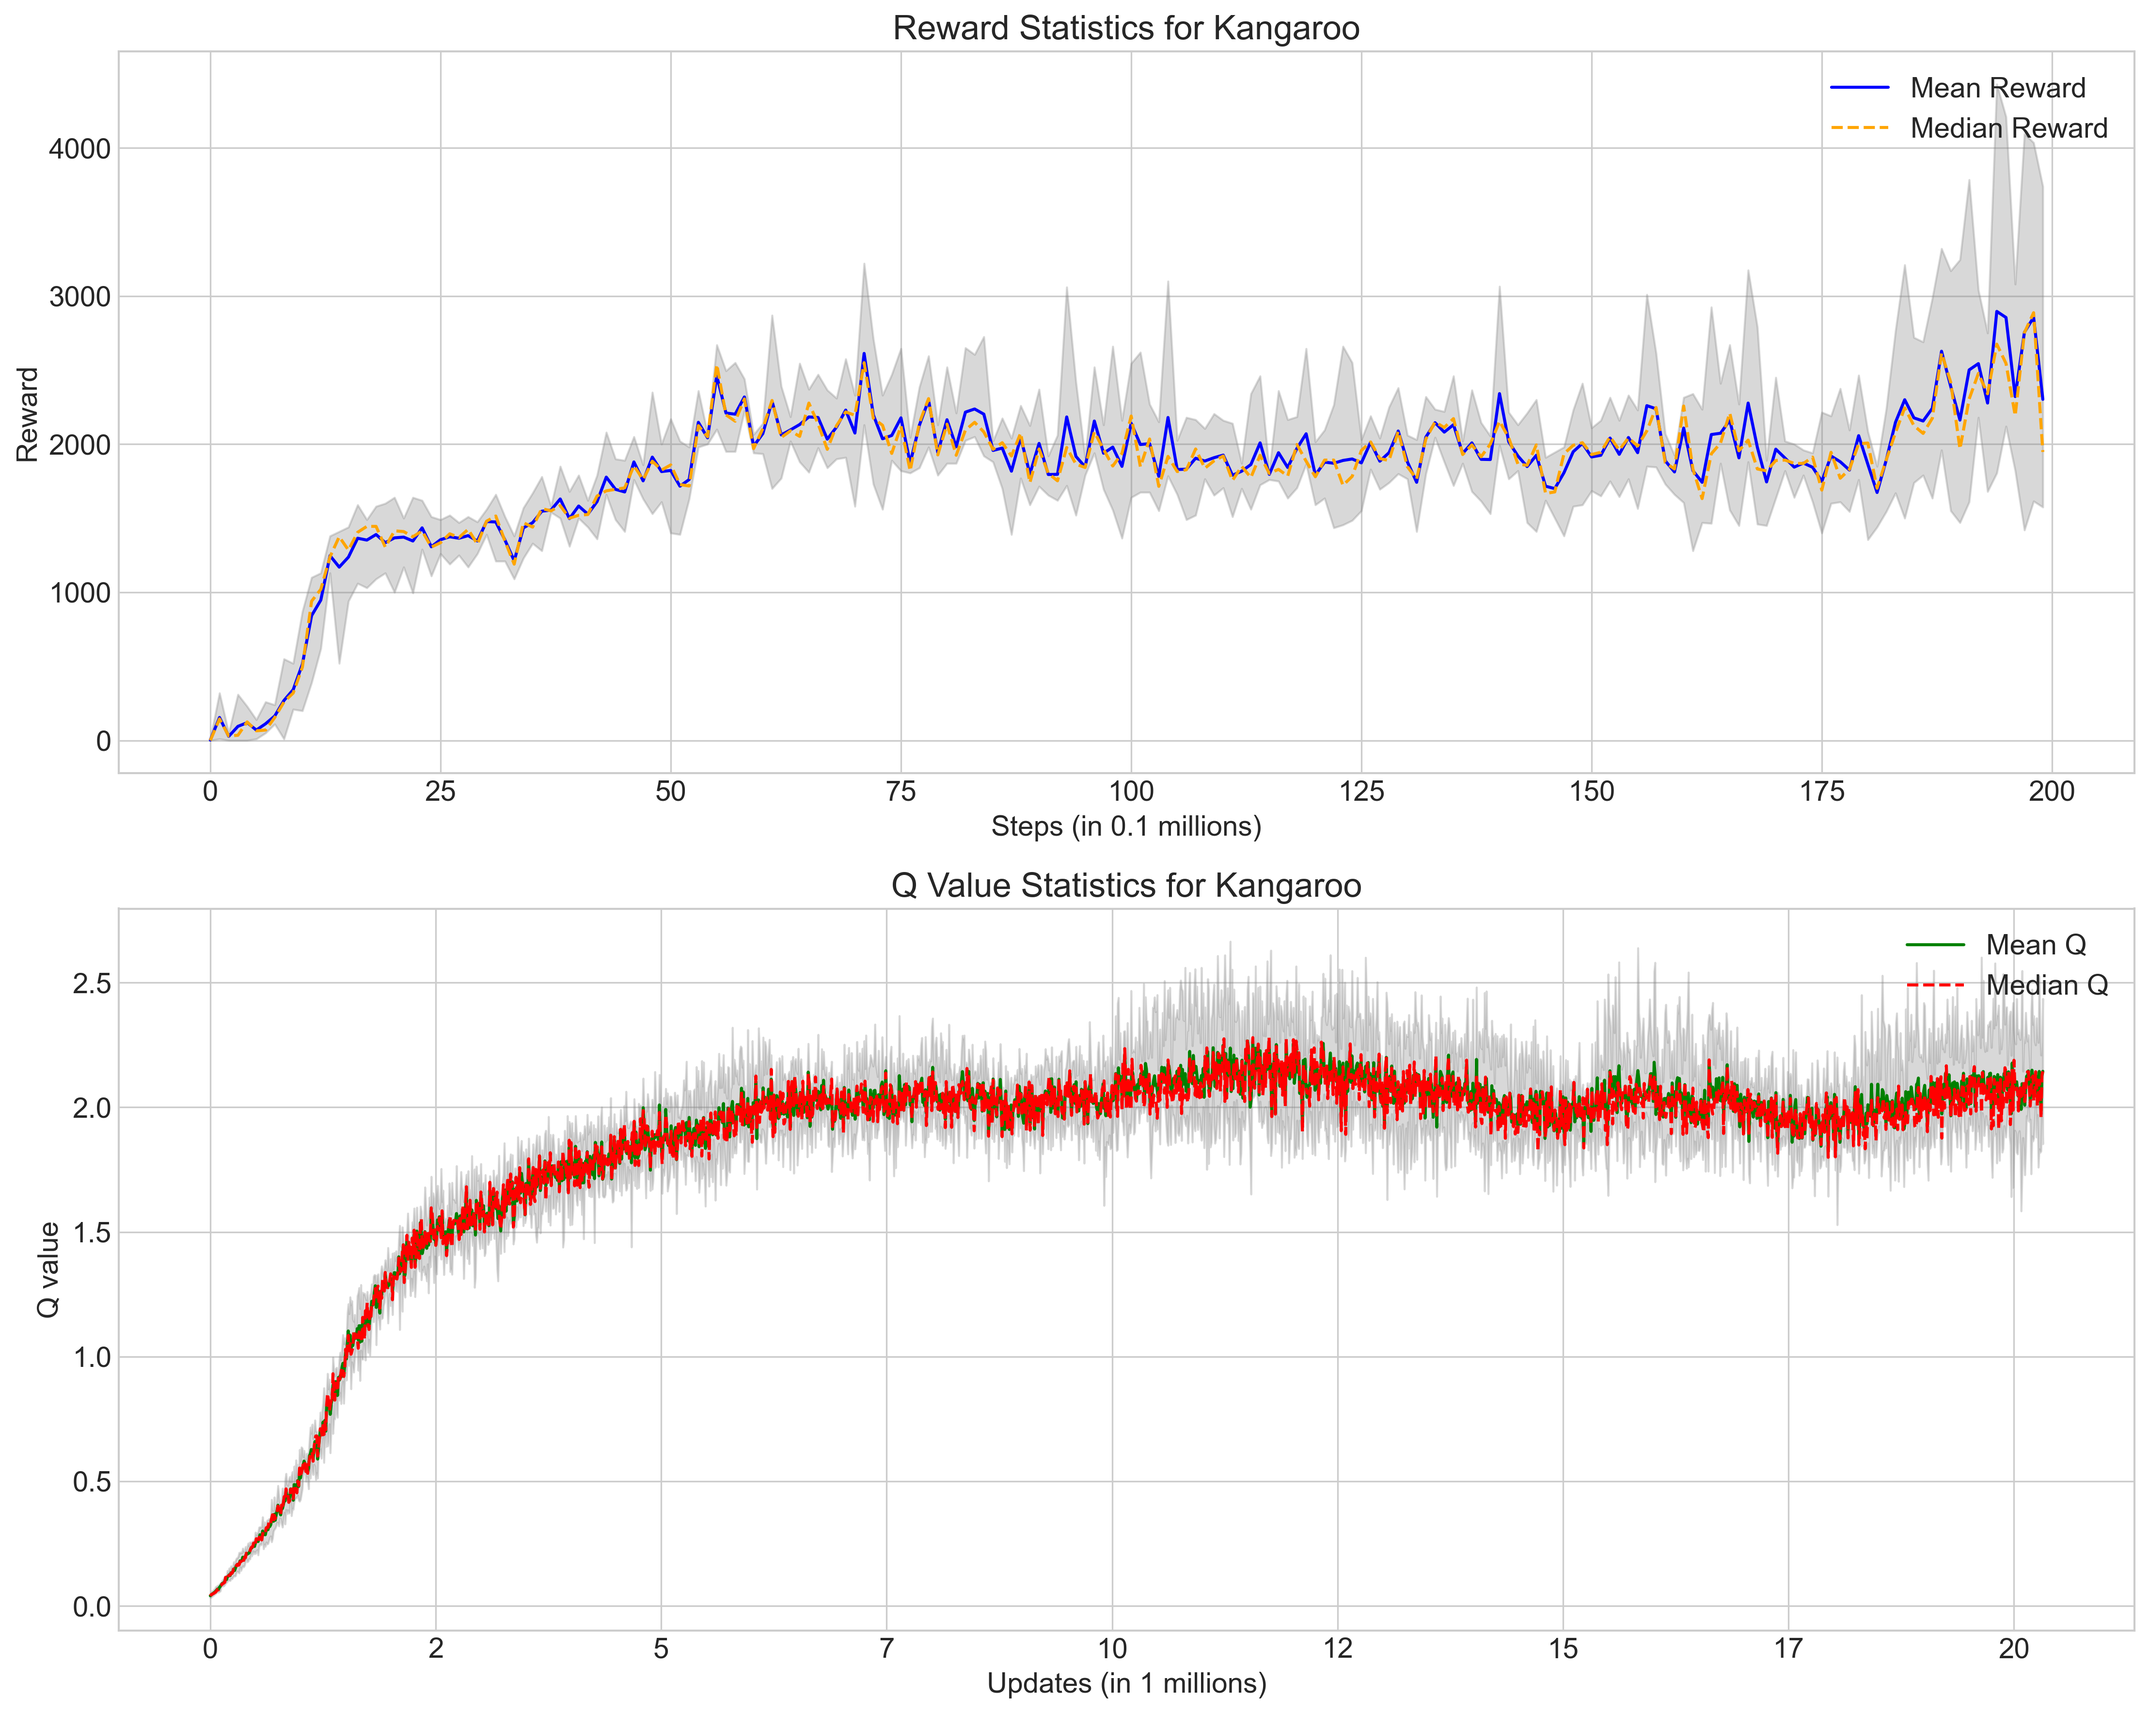
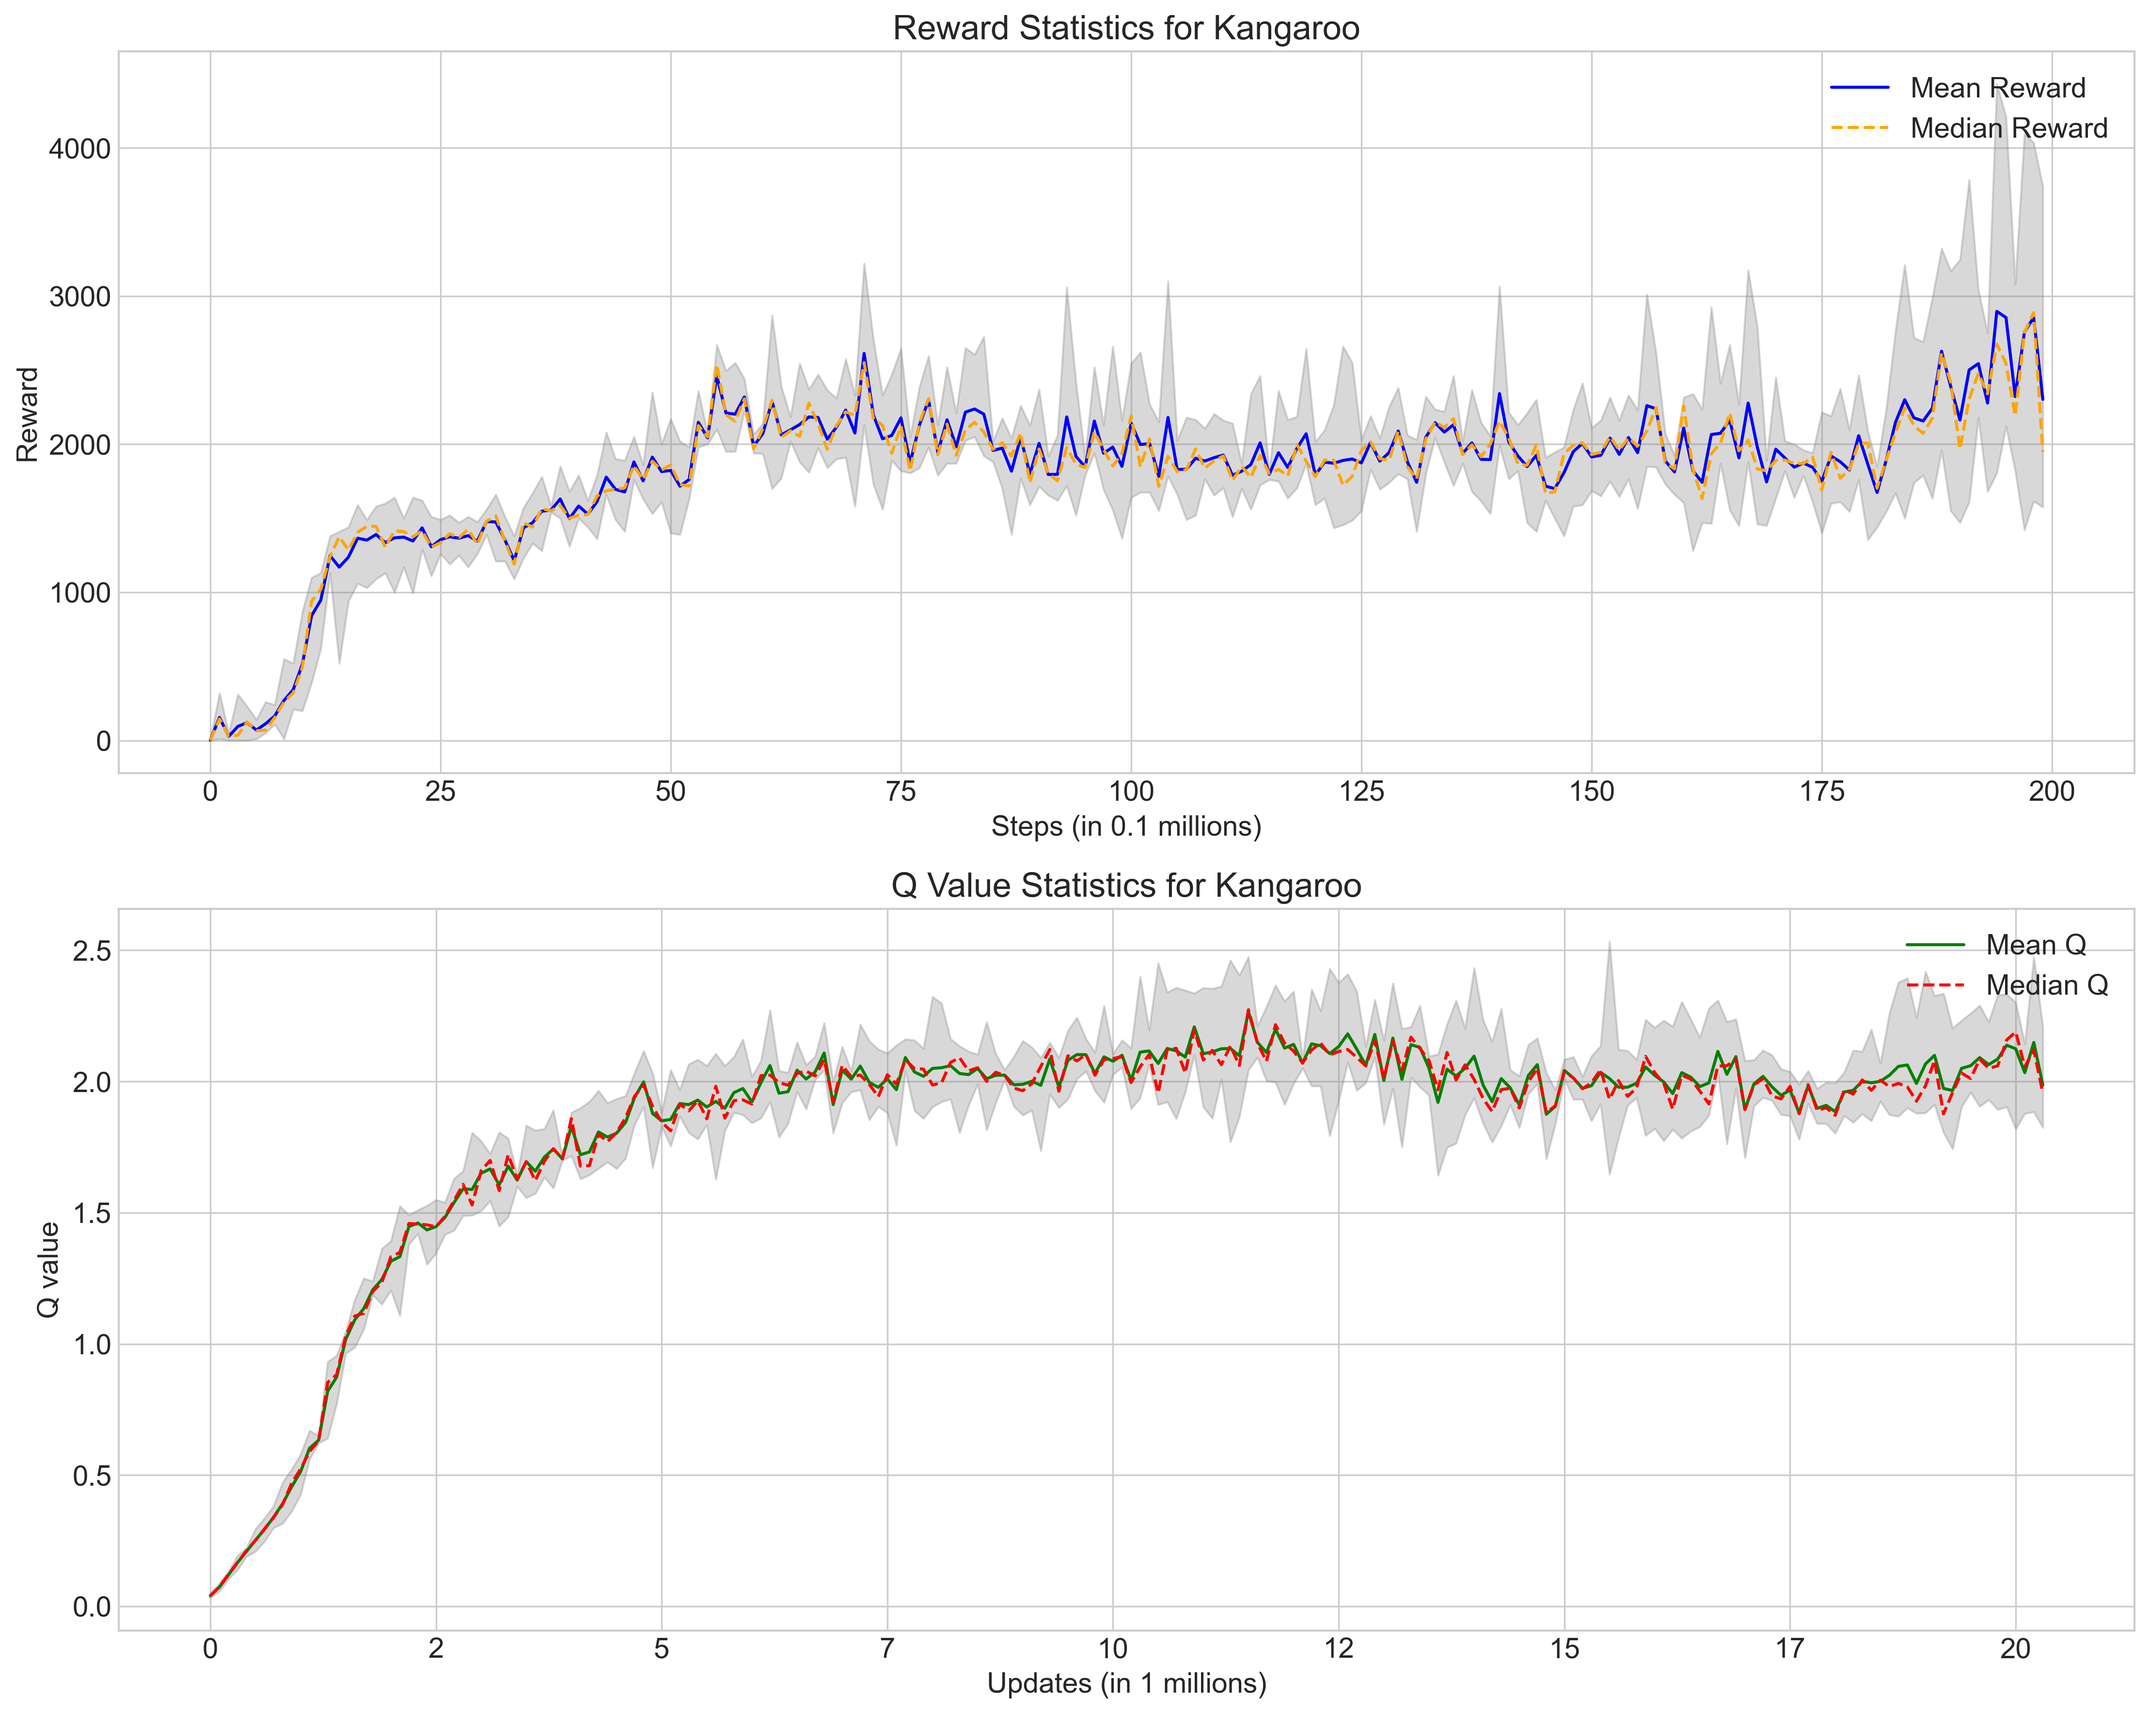
dqn exps data

diff --git a/plot_exps_log.py b/plot_exps_log.py
@@ -25,7 +25,7 @@ def load_tensorboard_data(log_dir):
 
 
 def formatter(x, pos):
-    return f'{int(x/100)}'  # Assumes x is the index, every index is 100000 updates
+    return f'{int(x/10)}'  # Assumes x is the index, every index is 100000 updates
 
 
 def plot_data(game_data):
@@ -43,10 +43,10 @@ def plot_data(game_data):
         reward_max = np.max(rewards, axis=0)
         reward_min = np.min(rewards, axis=0)
 
-        q_means = np.mean(q_values, axis=0)
-        q_medians = np.median(q_values, axis=0)
-        q_max = np.max(q_values, axis=0)
-        q_min = np.min(q_values, axis=0)
+        q_means = np.mean(q_values, axis=0)[::10]
+        q_medians = np.median(q_values, axis=0)[::10]
+        q_max = np.max(q_values, axis=0)[::10]
+        q_min = np.min(q_values, axis=0)[::10]
 
         fig, axs = plt.subplots(2, 1, figsize=(15, 12), dpi=300)  # 使用更高的DPI确保图像质量
 
